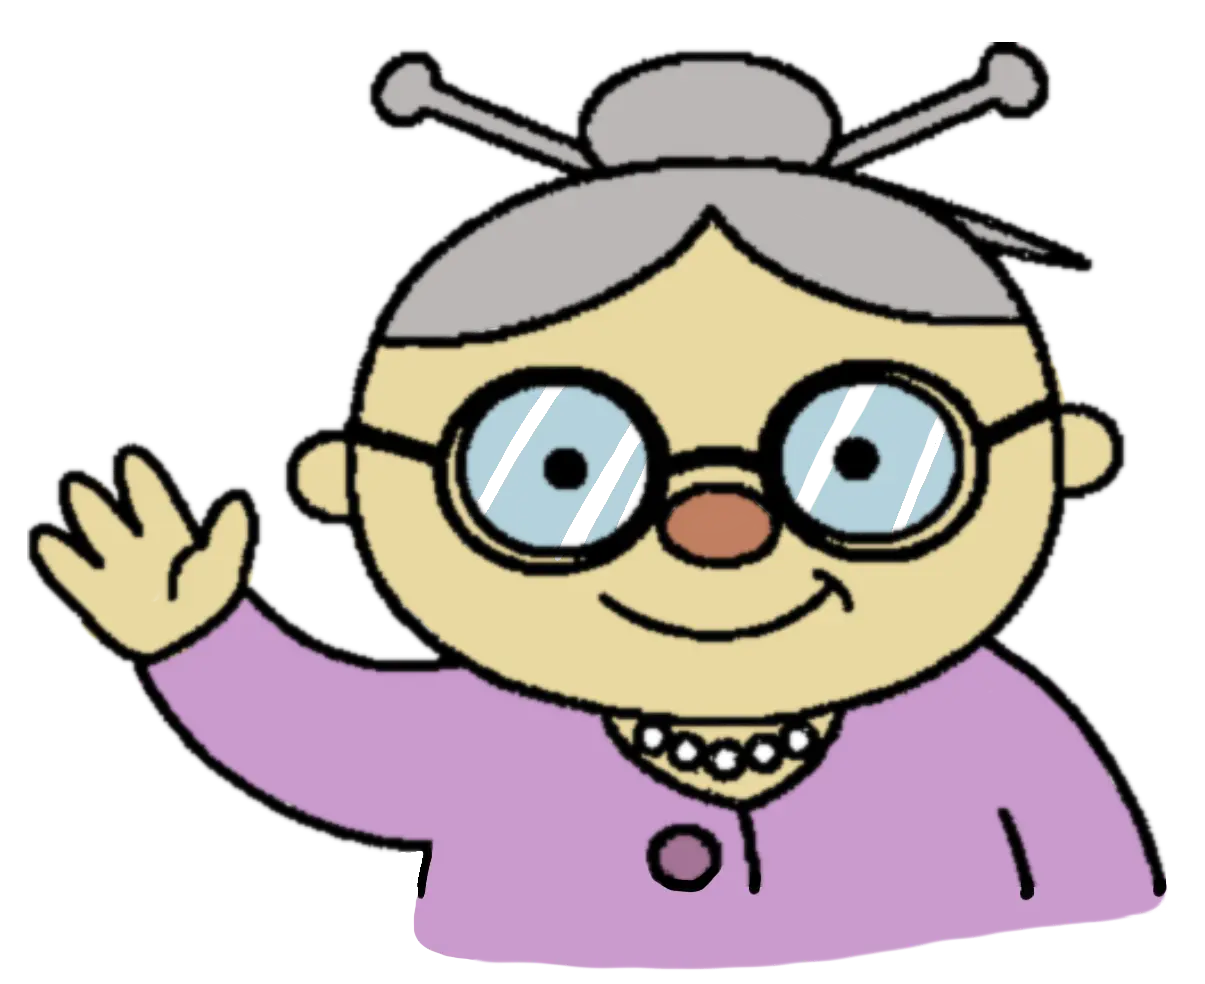
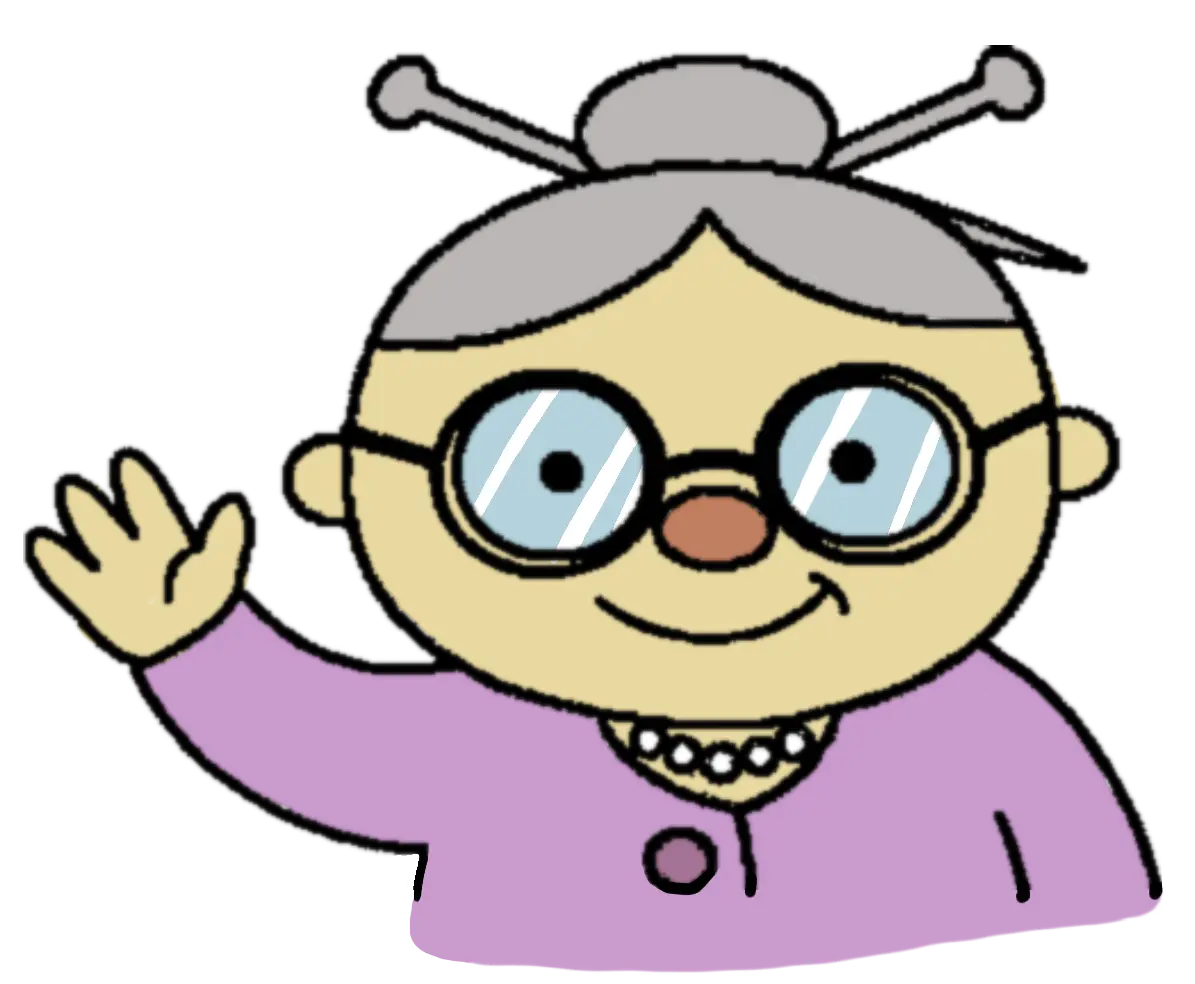
Landing page: new yellow design with the cat and yarn, new grandma picture; serve cat.png

diff --git a/coming-soon/style.css b/coming-soon/style.css
@@ -1,7 +1,9 @@
 :root {
+  --cat: clamp(7rem, 24vh, 16rem);
   --ink: #000;
   --paper: #fff3a6;
   --pink: #f4a3b4;
+  --lilac: #c8a2d8;
   --display: "Gochi Hand", "Comic Sans MS", "Chalkboard SE", cursive;
   --body: "Comic Neue", "Comic Sans MS", "Chalkboard SE", sans-serif;
   --wobble: 255px 15px 225px 15px / 15px 225px 15px 255px;
@@ -11,36 +13,41 @@
 
 body {
   margin: 0;
+  position: relative;
+  overflow-x: hidden;
   min-height: 100vh;
-  display: grid;
-  place-items: center;
-  background: #fff;
+  min-height: 100dvh;
+  display: flex;
+  flex-direction: column;
+  align-items: center;
+  justify-content: center;
+  background: #e3c97b;
   color: var(--ink);
   font-family: var(--body);
-  font-size: clamp(1.1rem, 1rem + 0.5vw, 1.35rem);
+  font-size: clamp(1rem, 0.9rem + 0.5vw, 1.3rem);
   line-height: 1.45;
 }
 
-main { width: min(100% - 2rem, 40rem); padding: 2rem 0; text-align: center; }
+main { position: relative; z-index: 1; width: min(100% - 2rem, 40rem); padding: 1rem 0; text-align: center; }
 
-img { max-width: 100%; height: auto; }
+main img { display: block; margin: 0 auto 0.3rem; width: auto; max-width: 100%; height: clamp(7rem, 24vh, 15rem); }
 
 h1 {
   font-family: var(--display);
   font-weight: 400;
-  font-size: clamp(3.2rem, 10vw, 6rem);
+  font-size: clamp(2.4rem, min(9vw, 9vh), 5.5rem);
   line-height: 1.05;
   margin: 0 0 0.4em;
   rotate: -2deg;
 }
 
 p { margin: 0 0 1em; }
-.soon { font-family: var(--display); font-size: 2rem; background: var(--paper); display: inline-block; padding: 0 0.4em; }
+.soon { font-family: var(--display); font-size: 1.7rem; background: var(--lilac); display: inline-block; padding: 0 0.4em; }
 
 .btn {
   display: inline-block;
   font-family: var(--display);
-  font-size: 1.8rem;
+  font-size: 1.6rem;
   line-height: 1.1;
   padding: 0.45em 1.1em;
   color: var(--ink);
@@ -52,3 +59,16 @@ p { margin: 0 0 1em; }
 .btn:hover { background: var(--pink); }
 .btn:active { translate: 3px 3px; }
 .btn:focus-visible { outline: 4px dashed #2f4fc4; outline-offset: 4px; }
+
+/* small screens: the tag and the button stack, so the button is in the middle and the thread can hang from it */
+.soon, .btn { display: table; margin-inline: auto; }
+
+/* the thread hangs out of the Slack button down to the cat; its top end is 94% across the picture, so shift the picture left until that point is under the button */
+.cat { position: relative; z-index: 0; height: var(--cat); width: auto; margin-top: -1.5rem; translate: calc(var(--cat) * -0.3); pointer-events: none; }
+
+/* wide screens: the whole yarn trail in the bottom right corner, beside the text */
+@media (min-width: 1000px) {
+  body { display: grid; place-items: center; }
+  .soon, .btn { display: inline-block; margin-inline: 0; }
+  .cat { position: absolute; right: 0; bottom: 0; margin: 0; translate: none; width: calc(50vw - 19rem); height: auto; }
+}

diff --git a/coming-soon/index.html b/coming-soon/index.html
@@ -12,11 +12,12 @@
 </head>
 <body>
   <main>
-    <img src="grandma.webp" alt="Grandma waving" width="320">
+    <img src="grandma.webp" alt="Grandma waving" width="320" height="320">
     <h1>Help Grandma Out</h1>
     <p>Nitpicky Grandma has impossible demands. You ship the project anyway. She pays in cookies.</p>
     <p class="soon">Launching soon.</p>
     <a class="btn" href="https://hackclub.slack.com/channels/grandma">Join #grandma on Slack</a>
   </main>
+  <img class="cat" src="cat.png" alt="" aria-hidden="true">
 </body>
 </html>

diff --git a/app.py b/app.py
@@ -35,7 +35,7 @@ PAGE = Path(__file__).parent / "coming-soon"
 
 urlpatterns = [
     path("", serve, {"document_root": PAGE, "path": "index.html"}),
-    re_path(r"^(?P<path>style\.css|grandma\.webp)$", serve, {"document_root": PAGE}),
+    re_path(r"^(?P<path>style\.css|grandma\.webp|cat\.png)$", serve, {"document_root": PAGE}),
     path("healthz", lambda request: HttpResponse("ok")),
     path("dbcheck", dbcheck),
 ]
